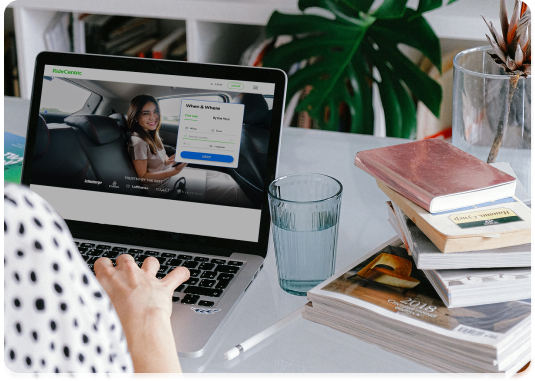
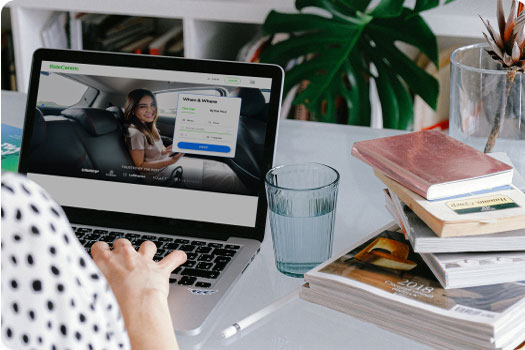
Project finally done

diff --git a/index.html b/index.html
@@ -152,7 +152,7 @@
                 <div class="col-md-6 col-sm-6 col-12  ">
                     <div class="our-img">
                         <div class="position-relative">
-                            <img src="images/computer-img.jpg " alt="Online booking make easye" class="img-fluid w-100  ">
+                            <img src="images/computer-img.jpg " alt="Online booking make easye" class="img-fluid w-100  rounded-3">
                             <i class="bi bi-play play-icon  "></i>
                         </div>
                     </div>
@@ -163,7 +163,7 @@
                 </div>
                 <div class="col-md-6 col-sm-6 col-12">
                     <div class="position-relative">
-                        <img src="images/lady-in-car.jpg" alt="Online booking make easye" class="img-fluid w-100  ">
+                        <img src="images/lady-in-car.jpg" alt="Online booking make easye" class="img-fluid w-100 rounded-3 ">
                         <i class="bi bi-play play-icon  "></i>
                     </div>
                     <div class="our-content">
